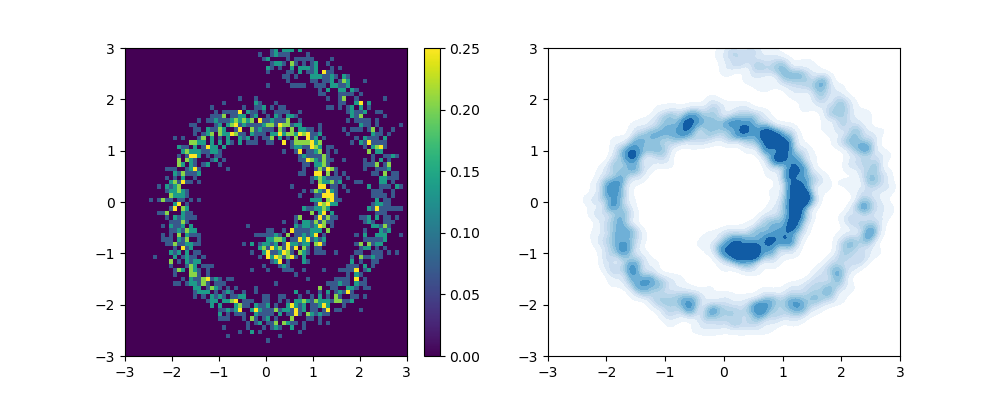
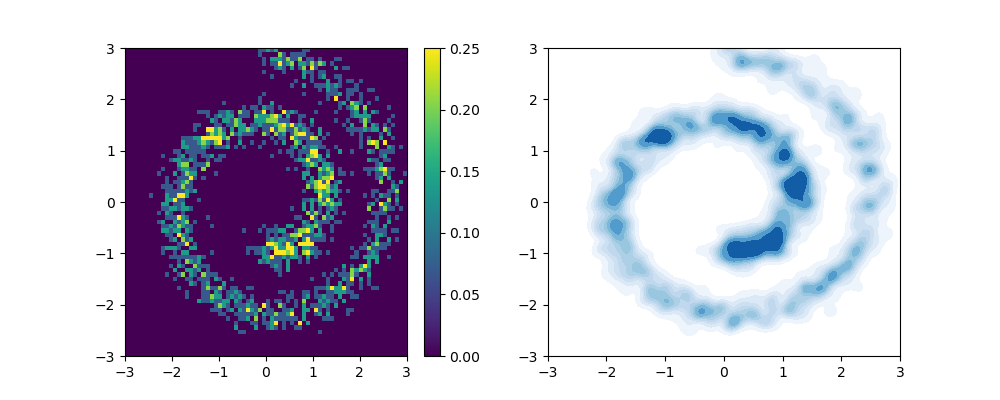
generic commit

diff --git a/scripts/transport/kvae_flow.py b/scripts/transport/kvae_flow.py
@@ -16,7 +16,7 @@ from datetime import datetime as dt
 from seaborn import kdeplot
 
 
-def format(n, n_digits = 4):
+def format(n, n_digits = 5):
     if n > 1e-3:
         return round(n,4)
     a = '%E' % n
@@ -207,7 +207,6 @@ class CondTransportKernel(nn.Module):
         self.fit_kXXvar_inv = torch.linalg.inv(self.fit_kernel(self.X_var, self.X_var) + self.nugget_matrix)
 
 
-        self.params['mmd_kernel_params']['l'] *= l_scale(self.Y_mu_test).cpu()
         self.mmd_kernel = get_kernel(self.params['mmd_kernel_params'], self.device)
 
         self.Z_mean = nn.Parameter(self.init_Z(), requires_grad=True)
@@ -225,6 +224,8 @@ class CondTransportKernel(nn.Module):
         self.Y_mu_test = geq_1d(torch.tensor(base_params['Y_mu_test'], device=self.device, dtype=self.dtype))
         self.Y_test = torch.concat([self.X_mu_test, self.Y_mu_test], dim=1)
 
+        self.params['mmd_kernel_params']['l'] *= l_scale(self.Y_mu_test).cpu()
+
         self.alpha_z = self.p_vec(self.Nx)
         self.alpha_y = self.p_vec(self.Ny)
         self.E_mmd_YY = self.alpha_y.T @ self.mmd_kernel(self.Y_target, self.Y_target) @ self.alpha_y
@@ -233,14 +234,17 @@ class CondTransportKernel(nn.Module):
         if self.params['mmd_lambda'] != 0:
             self.mmd_lambda = self.params['mmd_lambda']
         else:
-            self.mmd_lambda = (1 / self.loss_mmd().detach())
+            self.mmd_lambda = 1 #(1 / self.loss_mmd().detach())
             self.params['mmd_lambda'] = self.mmd_lambda
         self.iters = deepcopy(self.params['iters'])
 
     def get_train_idx(self):
         batch_size = self.params['batch_size']
         N = len(self.params['Y_mu'])
-        inducing_idx = random.sample(list(range(batch_size//2, N)), k = int(batch_size*.2))
+        if batch_size == N:
+            return torch.tensor(list(range(batch_size))).long()
+        fixed_idx = list(range(batch_size//2))
+        inducing_idx = random.sample(list(range(batch_size//2, N)), k = int(batch_size//2))
         train_idx = torch.tensor(fixed_idx + inducing_idx).long()
         return train_idx
 
@@ -710,12 +714,12 @@ def vl_exp(N=10000, n_iter=51, Yd=18, normal=True, exp_name='kvl_exp2', n_transp
 
 
 def run():
-    ref_gen = sample_normal
-    N = 2000
+    ref_gen = sample_spirals
+    N = 20000
     batch_size = 500
     two_d_exp(ref_gen, sample_swiss_roll, N=N, n_iter=49, plt_range=[[-3, 3], [-3, 3]], process_funcs=[],
-              skip_idx=1, slice_vals=[], slice_range=[-3,3], exp_name='exp', n_transports=50,
-              vmax=.25, batch_size = batch_size, N_plot = N, reg_lambda= 1e-5)
+              skip_idx=1, slice_vals=[], slice_range=[-3,3], exp_name='sample_exp', n_transports=50, vmax=.25,
+              batch_size = batch_size, N_plot = N, reg_lambda= 1e-5)
 
 
     #vl_exp(N = 20000, batch_size=4000, n_transports=150, n_iter=51, exp_name='kvl_exp')

diff --git a/scripts/transport/kvae_flow_old.py b/scripts/transport/kvae_flow_old.py
@@ -701,11 +701,10 @@ def vl_exp(N=10000, n_iter=101, Yd=18, normal=True, exp_name='vl_exp', n_transpo
 
 def run():
     #elden_exp(N=5000, n_transports=200)
-
     ref_gen = sample_normal
-    N = 400
-    two_d_exp(ref_gen, sample_spirals, N=N, n_iter=49, plt_range=[[-3, 3], [-3, 3]], process_funcs=[],
-              skip_idx=1, slice_vals=[0], slice_range=[-3, 3], exp_name='exp', n_transports=50, vmax=.15)
+    batch_size = 500
+    two_d_exp(ref_gen, sample_swiss_roll, N=N, n_iter=49, plt_range=[[-3, 3], [-3, 3]], process_funcs=[],
+              skip_idx=1, slice_vals=[], slice_range=[-3, 3], exp_name='exp', n_transports=50, vmax=.25)
 
     '''
     spheres_exp(N = 8000, n_transports=200)

diff --git a/scripts/transport/fit_kernel.py b/scripts/transport/fit_kernel.py
@@ -8,7 +8,7 @@ from seaborn import kdeplot
 import warnings
 warnings.filterwarnings("ignore")
 
-def format(n, n_digits = 4):
+def format(n, n_digits = 5):
     if n > 1e-3:
         return round(n,4)
     a = '%E' % n
